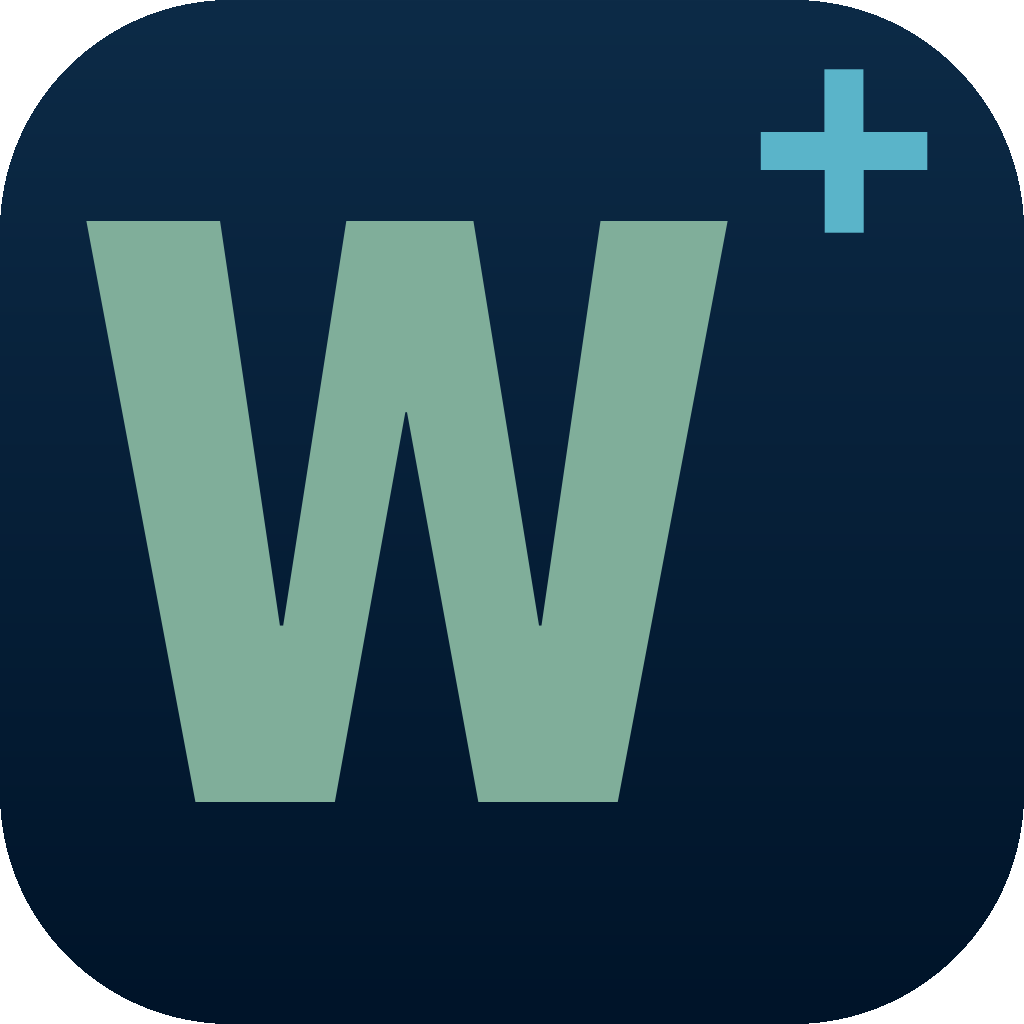
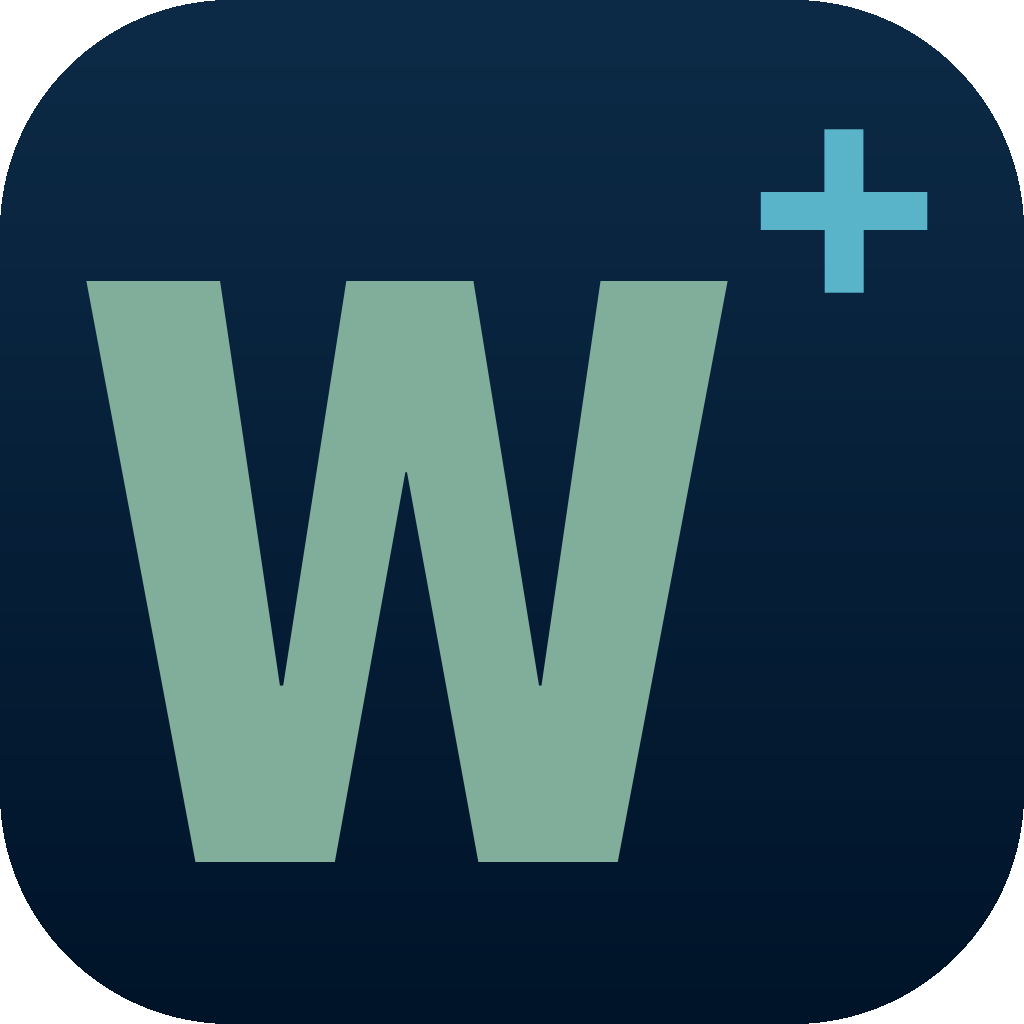
fix(helper): prevent crash loop when running as launchd daemon
- Gate MethodShutdown handler on !isDaemon() — daemon should never
  honor GUI shutdown RPCs; launchd manages its lifecycle
- Remove MethodShutdown send from GUI doShutdown — launchd restarts
  the helper; sending shutdown caused an infinite restart loop
- Raise helper ping timeout from 500ms to 2s to reduce spurious reinstalls
- Prepend legacy com.wireguide.helper cleanup to install script

Also: icon W+ shifted down for better + breathing room; bump to v1.0.31;
rename korjwl1 → steiale bindings path.

diff --git a/frontend/bindings/github.com/wailsapp/wails/v3/internal/eventcreate.js b/frontend/bindings/github.com/wailsapp/wails/v3/internal/eventcreate.js
@@ -8,13 +8,13 @@ import { Create as $Create } from "@wailsio/runtime";
 
 // eslint-disable-next-line @typescript-eslint/ban-ts-comment
 // @ts-ignore: Unused imports
-import * as domain$0 from "../../../../korjwl1/wireguide/internal/domain/models.js";
+import * as domain$0 from "../../../../steiale/wireguide/internal/domain/models.js";
 // eslint-disable-next-line @typescript-eslint/ban-ts-comment
 // @ts-ignore: Unused imports
-import * as gui$0 from "../../../../korjwl1/wireguide/internal/gui/models.js";
+import * as gui$0 from "../../../../steiale/wireguide/internal/gui/models.js";
 // eslint-disable-next-line @typescript-eslint/ban-ts-comment
 // @ts-ignore: Unused imports
-import * as ipc$0 from "../../../../korjwl1/wireguide/internal/ipc/models.js";
+import * as ipc$0 from "../../../../steiale/wireguide/internal/ipc/models.js";
 
 function configure() {
     Object.freeze(Object.assign($Create.Events, {

diff --git a/frontend/bindings/github.com/wailsapp/wails/v3/internal/eventdata.d.ts b/frontend/bindings/github.com/wailsapp/wails/v3/internal/eventdata.d.ts
@@ -7,13 +7,13 @@ import type { Events } from "@wailsio/runtime";
 
 // eslint-disable-next-line @typescript-eslint/ban-ts-comment
 // @ts-ignore: Unused imports
-import type * as domain$0 from "../../../../korjwl1/wireguide/internal/domain/models.js";
+import type * as domain$0 from "../../../../steiale/wireguide/internal/domain/models.js";
 // eslint-disable-next-line @typescript-eslint/ban-ts-comment
 // @ts-ignore: Unused imports
-import type * as gui$0 from "../../../../korjwl1/wireguide/internal/gui/models.js";
+import type * as gui$0 from "../../../../steiale/wireguide/internal/gui/models.js";
 // eslint-disable-next-line @typescript-eslint/ban-ts-comment
 // @ts-ignore: Unused imports
-import type * as ipc$0 from "../../../../korjwl1/wireguide/internal/ipc/models.js";
+import type * as ipc$0 from "../../../../steiale/wireguide/internal/ipc/models.js";
 
 declare module "@wailsio/runtime" {
     namespace Events {

diff --git a/internal/gui/gui.go b/internal/gui/gui.go
@@ -194,14 +194,20 @@ func Run(assetsHandler http.Handler, dataDir string) error {
 				// networksetup calls across services, route teardown). The
 				// default 10 s Call timeout is too short — match the 60 s
 				// budget used by callLong for Connect/Disconnect everywhere
-				// else. Shutdown likewise needs a generous budget so the
-				// helper has time to flush state before exiting.
+				// else.
 				ctx, cancel := context.WithTimeout(context.Background(), 60*time.Second)
 				_ = c.CallWithContext(ctx, ipc.MethodDisconnect, nil, nil)
 				cancel()
-				ctx, cancel = context.WithTimeout(context.Background(), 60*time.Second)
-				_ = c.CallWithContext(ctx, ipc.MethodShutdown, nil, nil)
-				cancel()
+				// Do NOT send MethodShutdown here. The helper installed as a
+				// LaunchDaemon (KeepAlive=true) is owned by launchd — if we
+				// tell it to shut down, launchd respawns it immediately, the
+				// next GUI quit sends Shutdown again, and we land in a
+				// helper-restart crash loop. MethodDisconnect above is enough
+				// to tear down the VPN; launchd will keep the helper alive
+				// for the next GUI launch (no admin prompt). In dev/osascript
+				// mode the helper's own grace-window shutdown timer
+				// (startShutdownTimer) handles teardown when the GUI's
+				// control connection drops.
 			}
 			// Close in a goroutine with a short delay so the helper has
 			// time to process the shutdown command without blocking the
@@ -288,7 +294,7 @@ func bootstrapHelper(app *application.App, clients *ipc.ClientHolder, bridge *ev
 	var newClient *ipc.Client
 	for attempt := 0; attempt < 3; attempt++ {
 		// Pass background context — ensureHelper manages its own internal
-		// timeouts (500ms for the initial ping, 60s fresh poll after SpawnHelper).
+		// timeouts (2s for the initial ping, 60s fresh poll after SpawnHelper).
 		// A deadline on the outer context races with SpawnHelper and cancels
 		// the poll immediately when both expire at the same time.
 		var err error

diff --git a/internal/elevate/spawn_darwin.go b/internal/elevate/spawn_darwin.go
@@ -126,7 +126,13 @@ func installAndLoadDaemon(args Args) error {
 	// uninstall), `kickstart` fails with non-zero exit and we fall back to
 	// `bootstrap` to load it from the plist.
 	shellScript := fmt.Sprintf(
-		`mkdir -p /Library/PrivilegedHelperTools && `+
+		// Idempotently uninstall the legacy v1.0.x daemon (label
+		// com.wireguide.helper) before installing the current one.
+		// Errors suppressed: missing files / unloaded service are fine.
+		`launchctl bootout system/com.wireguide.helper 2>/dev/null; `+
+			`rm -f /Library/LaunchDaemons/com.wireguide.helper.plist; `+
+			`rm -f /Library/PrivilegedHelperTools/com.wireguide.helper; `+
+			`mkdir -p /Library/PrivilegedHelperTools && `+
 			`cp -f %s %s && `+
 			`xattr -d com.apple.quarantine %s 2>/dev/null; `+
 			`chown root:wheel %s && `+

diff --git a/internal/gui/helper_lifecycle.go b/internal/gui/helper_lifecycle.go
@@ -25,7 +25,13 @@ func ensureHelper(ctx context.Context, dataDir string) (*ipc.Client, error) {
 
 	// Try an existing helper first (survives GUI restarts).
 	if client, err := ipc.NewClient(addr); err == nil {
-		pingCtx, pingCancel := context.WithTimeout(ctx, 500*time.Millisecond)
+		// 2 s (not 500 ms): a freshly-spawned helper that's still
+		// initialising — replaying state, opening the firewall, taking
+		// the connectMu — can legitimately take more than half a second
+		// to handle its first ping. A too-tight deadline here causes
+		// ensureHelper to give up on a perfectly healthy helper and trip
+		// the fallback reinstall path.
+		pingCtx, pingCancel := context.WithTimeout(ctx, 2*time.Second)
 		var resp ipc.PingResponse
 		pingErr := client.CallWithContext(pingCtx, ipc.MethodPing, nil, &resp)
 		pingCancel()

diff --git a/internal/helper/handlers.go b/internal/helper/handlers.go
@@ -19,7 +19,13 @@ import (
 // testable — `handler := &Helper{manager: mockMgr}; handler.handleConnect(...)`.
 func (h *Helper) registerHandlers() {
 	h.server.Handle(ipc.MethodPing, h.handlePing)
-	h.server.Handle(ipc.MethodShutdown, h.handleShutdown)
+	// Only honor MethodShutdown when running outside launchd. As a
+	// LaunchDaemon (KeepAlive=true) the OS owns the helper's lifecycle —
+	// obeying a GUI Shutdown causes launchd to immediately respawn us, the
+	// next GUI quit sends Shutdown again, and we end up in a crash loop.
+	if !isDaemon() {
+		h.server.Handle(ipc.MethodShutdown, h.handleShutdown)
+	}
 	h.server.Handle(ipc.MethodSetLogLevel, h.handleSetLogLevel)
 	h.server.Handle(ipc.MethodConnect, h.handleConnect)
 	h.server.Handle(ipc.MethodDisconnect, h.handleDisconnect)

diff --git a/internal/update/checker.go b/internal/update/checker.go
@@ -28,7 +28,7 @@ const (
 	// bundle's Info.plist cannot be read (e.g. unit tests, non-darwin
 	// builds, or running the bare binary without an enclosing .app).
 	// Keep this in sync with build/darwin/Info.plist on each release.
-	fallbackVersion = "1.0.30"
+	fallbackVersion = "1.0.31"
 
 	// minAssetSize is the minimum acceptable size for a release asset.
 	// A macOS .dmg/.zip containing WireGuide.app is always well over 1 MB;